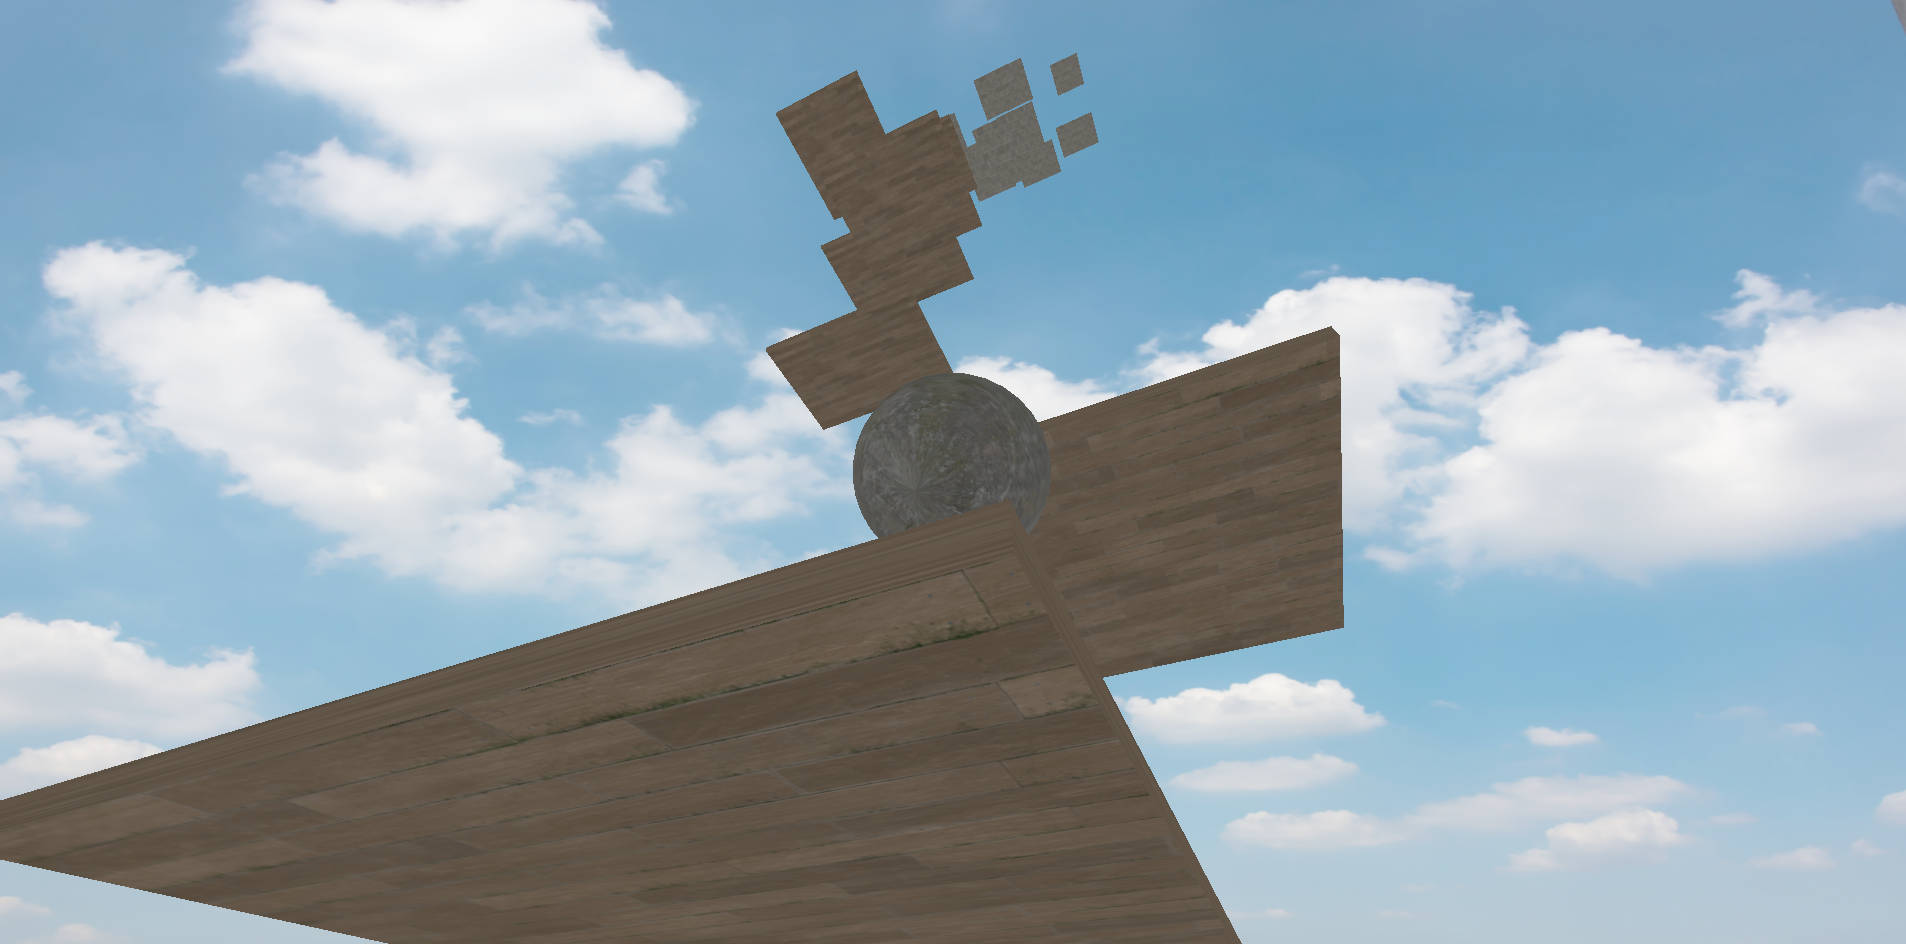
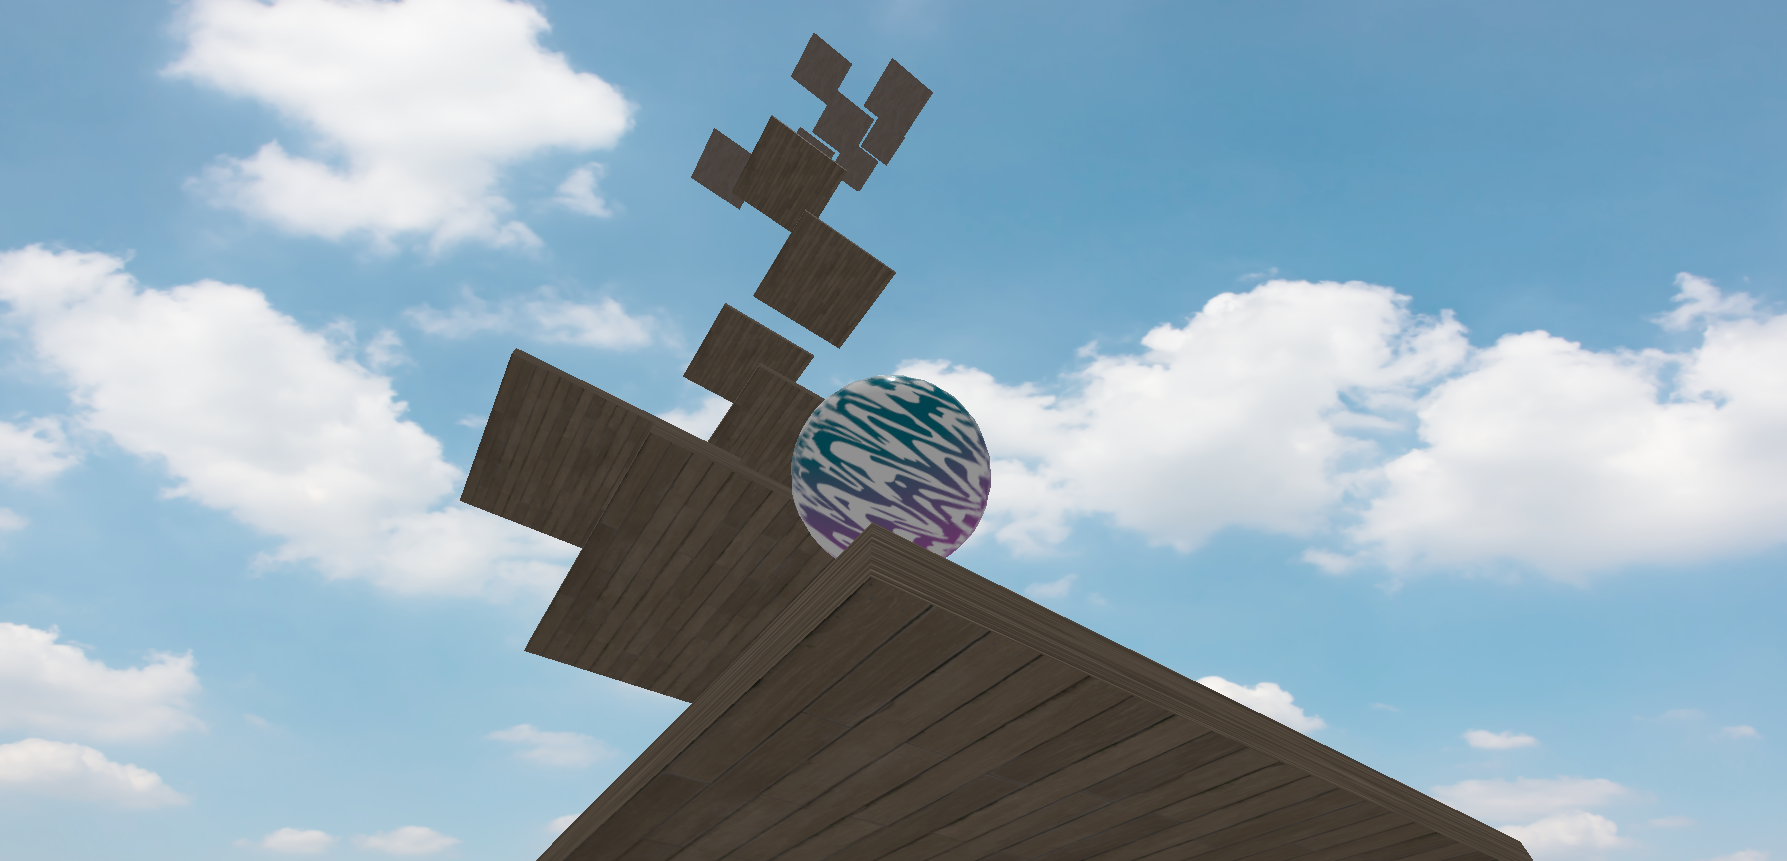
big changes

diff --git a/cheepchoop.js b/cheepchoop.js
@@ -1,7 +1,8 @@
 import * as THREE from 'three';
+import { roughness } from 'three/tsl';
 
 // Constants
-const RepeatFactor = 50;
+const RepeatFactor = 100;
 const gravity = -0.4;
 const jumpHeight = 8;
 const walkSpeed = 1;
@@ -9,14 +10,50 @@ const runSpeed = 2;
 const sensitivity = 0.002;
 const sphereRadius = 5;
 const platformLevels = [
-    { name: 'wood', texture: 'Planks020_1K-JPG_Color.jpg', normal: 'Planks020_1K-JPG_NormalGL.jpg', size: 69 },
-    { name: 'brick', texture: 'Bricks076A_1K-JPG_Color.jpg', normal: 'Bricks076A_1K-JPG_NormalGL.jpg', size: 50 },
-    { name: 'sand', texture: 'Ground080_1K-JPG_Color.jpg', normal: 'Ground080_1K-JPG_NormalGL.jpg', size: 40 },
-    { name: 'marble', texture: 'Marble012_1K-JPG_Color.jpg', normal: 'Marble012_1K-JPG_NormalGL.jpg', size: 30 },
-    { name: 'obsidian', texture: 'Obsidian006_1K-JPG_Color.jpg', normal: 'Obsidian006_1K-JPG_NormalGL.jpg', size: 20 }
+    {
+        name: 'wood',
+        texture: 'Planks020_1K-JPG_Color.jpg',
+        normal: 'Planks020_1K-JPG_NormalGL.jpg',
+        ao: 'Planks020_1K-JPG_AmbientOcclusion.jpg',
+        displacement: 'Planks020_1K-JPG_Displacement.jpg',
+        roughness: 'Planks020_1K-JPG_Roughness.jpg',
+        size: 69
+    },
+    {
+        name: 'brick',
+        texture: 'Bricks082A_1K-JPG_Color.jpg',
+        normal: 'Bricks082A_1K-JPG_NormalGL.jpg',
+        ao: 'Bricks082A_1K-JPG_AmbientOcclusion.jpg',
+        displacement: 'Bricks082A_1K-JPG_Displacement.jpg',
+        roughness: 'Bricks082A_1K-JPG_Roughness.jpg',
+        size: 50
+    },
+    {
+        name: 'sand',
+        texture: 'Ground080_1K-JPG_Color.jpg',
+        normal: 'Ground080_1K-JPG_NormalGL.jpg',
+        ao: 'Ground080_1K-JPG_AmbientOcclusion.jpg',
+        displacement: 'Ground080_1K-JPG_Displacement.jpg',
+        roughness: 'Ground080_1K-JPG_Roughness.jpg',
+        size: 40
+    },
+    {
+        name: 'marble',
+        texture: 'Marble012_1K-JPG_Color.jpg',
+        normal: 'Marble012_1K-JPG_NormalGL.jpg',
+        displacement: 'Marble012_1K-JPG_Displacement.jpg',
+        roughness: 'Marble012_1K-JPG_Roughness.jpg',
+        size: 30
+    },
+    {
+        name: 'obsidian',
+        texture: 'Obsidian006_1K-JPG_Color.jpg',
+        normal: 'Obsidian006_1K-JPG_NormalGL.jpg',
+        displacement: 'Obsidian006_1K-JPG_Displacement.jpg',
+        roughness: 'Obsidian006_1K-JPG_Roughness.jpg',
+        size: 20
+    }
 ];
-// To remove
-let fly = false;
 
 const manager = new THREE.LoadingManager();
 const progressBar = document.getElementById('progressBar');
@@ -42,7 +79,7 @@ function setupBackgroundMusic(music = 'Mind-Bender.mp3') {
         if (backgroundMusic.src.endsWith(music)) return; // Don't reload same music
         backgroundMusic.pause();
     }
-    
+
     backgroundMusic = new Audio(`assets/sounds/${music}`);
     backgroundMusic.loop = true;
     backgroundMusic.volume = 0.3;
@@ -74,28 +111,56 @@ function loadTexture(manager, path) {
 }
 
 // ******************************  Create Player  ******************************
-const geometrySphere = new THREE.SphereGeometry(5, 32, 32);
-const rockMap = loadTexture(manager, 'assets/player/Rock020_1K-JPG_Color.jpg');
-const rockNormalMap = loadTexture(manager, 'assets/player/Rock020_1K-JPG_NormalGL.jpg');
-const materialSphere = new THREE.MeshStandardMaterial({ map: rockMap, normalMap: rockNormalMap });
+const geometrySphere = new THREE.SphereGeometry(sphereRadius, 32, 32);
+const rockMap = loadTexture(manager, 'assets/player/ChristmasTreeOrnament017_1K-JPG_Color.jpg');
+const rockNormalMap = loadTexture(manager, 'assets/player/ChristmasTreeOrnament017_1K-JPG_NormalGL.jpg');
+const rockRoughnessMap = loadTexture(manager, 'assets/player/ChristmasTreeOrnament017_1K-JPG_Roughness.jpg');
+const rockMetalnessMap = loadTexture(manager, 'assets/player/ChristmasTreeOrnament017_1K-JPG_Metalness.jpg');
+const rockDisplacementMap = loadTexture(manager, 'assets/player/ChristmasTreeOrnament017_1K-JPG_Displacement.jpg');
+
+const materialSphere = new THREE.MeshStandardMaterial({
+    map: rockMap,
+    normalMap: rockNormalMap,
+    roughnessMap: rockRoughnessMap,
+    metalnessMap: rockMetalnessMap,
+    displacementMap: rockDisplacementMap,
+    displacementScale: 0.05,
+    color: new THREE.Color(1, 1, 1).multiplyScalar(2),
+    metalness: 0.6,
+    roughness: 0
+});
 const sphere = new THREE.Mesh(geometrySphere, materialSphere);
 sphere.position.y = 10;
 
 
 // ******************************  Create Ground  ******************************
-const geometryPlane = new THREE.PlaneGeometry(5000, 5000, 500, 500); // Increased size
-const grassMap = loadTexture(manager, 'assets/ground/Grass001_1K-JPG_Color.jpg');
-const grassNormalMap = loadTexture(manager, 'assets/ground/Grass001_1K-JPG_NormalGL.jpg');
-// Texture repeating
-grassMap.wrapS = THREE.RepeatWrapping;
-grassMap.wrapT = THREE.RepeatWrapping;
-grassNormalMap.wrapS = THREE.RepeatWrapping;
-grassNormalMap.wrapT = THREE.RepeatWrapping;
+const groundSize = 5000;
+const groundSegments = 500;
+const geometryPlane = new THREE.PlaneGeometry(groundSize, groundSize, groundSegments, groundSegments);
 
-grassMap.repeat.set(RepeatFactor, RepeatFactor);
-grassNormalMap.repeat.set(RepeatFactor, RepeatFactor);
+const loadAndRepeatTexture = (manager, path, repeatFactor) => {
+    const texture = loadTexture(manager, path);
+    texture.wrapS = THREE.RepeatWrapping;
+    texture.wrapT = THREE.RepeatWrapping;
+    texture.repeat.set(repeatFactor, repeatFactor);
+    return texture;
+};
+const grassMap = loadAndRepeatTexture(manager, 'assets/ground/Grass001_1K-JPG_Color.jpg', RepeatFactor);
+const grassNormalMap = loadAndRepeatTexture(manager, 'assets/ground/Grass001_1K-JPG_NormalGL.jpg', RepeatFactor);
+const grassAoMap = loadAndRepeatTexture(manager, 'assets/ground/Grass001_1K-JPG_AmbientOcclusion.jpg', RepeatFactor);
+const grassDisplacementMap = loadAndRepeatTexture(manager, 'assets/ground/Grass001_1K-JPG_Displacement.jpg', RepeatFactor);
+const grassRoughnessMap = loadAndRepeatTexture(manager, 'assets/ground/Grass001_1K-JPG_Roughness.jpg', RepeatFactor);
 
-const materialPlane = new THREE.MeshStandardMaterial({ map: grassMap, normalMap: grassNormalMap });
+const materialPlane = new THREE.MeshStandardMaterial({
+    map: grassMap,
+    normalMap: grassNormalMap,
+    aoMap: grassAoMap,
+    displacementMap: grassDisplacementMap,
+    displacementScale: 2,
+    roughnessMap: grassRoughnessMap,
+    roughness: 1
+});
+
 const plane = new THREE.Mesh(geometryPlane, materialPlane);
 plane.rotateX(Math.PI * 1.5);
 
@@ -133,7 +198,17 @@ function createPlatforms(manager, levels) {
             const geometryPlatform = new THREE.BoxGeometry(size, 3, size);
             const texture = loadTexture(manager, `assets/platforms/${level.texture}`);
             const normal = loadTexture(manager, `assets/platforms/${level.normal}`);
-            const materialPlatform = new THREE.MeshStandardMaterial({ map: texture, normalMap: normal });
+            const displacement = loadTexture(manager, `assets/platforms/${level.displacement}`);
+            const roughness = loadTexture(manager, `assets/platforms/${level.roughness}`);
+
+            let materialPlatform;
+            if (level.ao){
+                const ao = loadTexture(manager, `assets/platforms/${level.ao}`);
+                materialPlatform = new THREE.MeshStandardMaterial({ map: texture, normalMap: normal, aoMap: ao, displacementMap: displacement, roughnessMap: roughness, displacementScale: 0 });
+            } else {
+                materialPlatform = new THREE.MeshStandardMaterial({ map: texture, normalMap: normal, displacementMap: displacement, roughnessMap: roughness, displacementScale: 0 });
+            }
+            
             const platform = new THREE.Mesh(geometryPlatform, materialPlatform);
 
             platform.name = level.name;
@@ -164,13 +239,15 @@ function createPlatforms(manager, levels) {
 const platforms = createPlatforms(manager, platformLevels);
 
 // ******************************  Create Light  ******************************
-const ambientLight = new THREE.AmbientLight();
+const ambientLight = new THREE.AmbientLight(0xffffff, 0.5);
+const directionalLight = new THREE.DirectionalLight(0xffffff, 1);
+directionalLight.position.set(0, 1000, 0);
 
 // ******************************  Load Skybox  ******************************
 const skybox = new THREE.TextureLoader(manager).load('assets/day-heavenly-space-scene-fluffy.jpg');
 
 // ******************************  Add elements to scene  ******************************
-scene.add(sphere, plane, ambientLight);
+scene.add(sphere, plane, directionalLight, ambientLight);
 platforms.forEach(platform => {
     scene.add(platform);
 });
@@ -203,6 +280,9 @@ let grounded = false;
 let jumpVelocity = 0;
 let momentum = new THREE.Vector3(0, 0, 0);
 let maxHeight = 0;
+let lastHeight; 
+let fallDistance; 
+let isFalling;
 const upVector = new THREE.Vector3(0, 1, 0);
 
 // Collision detection function (Sphere - Box)
@@ -342,7 +422,7 @@ function move() {
     }
 
     // Jump
-    if (keyIsPressed(' ') && (grounded || fly)) {  // To remove
+    if (keyIsPressed(' ') && (grounded)) {
         playSound("assets/sounds/se_common_jump.wav");
         jumpVelocity = jumpHeight;
         grounded = false;
@@ -429,6 +509,28 @@ function move() {
         grounded = false;
     }
 
+    
+    if (sphere.position.y < lastHeight) {
+        fallDistance += lastHeight - sphere.position.y;
+        if (fallDistance > 100 && !isFalling) {
+            playSound("assets/sounds/se_common_oh-no.wav");
+            isFalling = true;
+            setTimeout(() => {
+                setupBackgroundMusic('Past Sadness.mp3');
+                playBackgroundMusic();
+            }, 500);
+        }
+    } else if (grounded && isFalling) {
+        setupBackgroundMusic('Mind-Bender.mp3');
+        playBackgroundMusic();
+        fallDistance = 0;
+        isFalling = false;
+    } else if (!isFalling) {
+        fallDistance = 0;
+    }
+
+    lastHeight = sphere.position.y;
+
     // Reset position if falls below ground
     if (sphere.position.y < plane.position.y + sphereRadius) {
         sphere.position.y = plane.position.y + sphereRadius;
@@ -464,34 +566,10 @@ function move() {
 }
 
 // ******************************  Game Loop  ******************************
-let lastHeight; let fallDistance; let isFalling;
 function animate() {
     requestAnimationFrame(animate);
     move();
-    
-    if (sphere.position.y < lastHeight) {
-        fallDistance += lastHeight - sphere.position.y;
-        if (fallDistance > 100 && !isFalling) {
-            playSound("assets/sounds/se_common_oh-no.wav");
-            isFalling = true;
-            setTimeout(() => {
-                setupBackgroundMusic('Past Sadness.mp3');
-                playBackgroundMusic();
-            }, 500);
-        }
-    } else if (grounded && isFalling) {
-        setupBackgroundMusic('Mind-Bender.mp3');
-        playBackgroundMusic();
-        fallDistance = 0;
-        isFalling = false;
-    } else if (!isFalling) {
-        fallDistance = 0;
-    }
 
-    // To remove
-    if (keyIsPressed('f')) { fly = !fly; }
-    
-    lastHeight = sphere.position.y;
     arrow.position.y = 20 + Math.sin((performance.now() * 0.001) * 2) * 2;
     renderer.render(scene, camera);
 }
